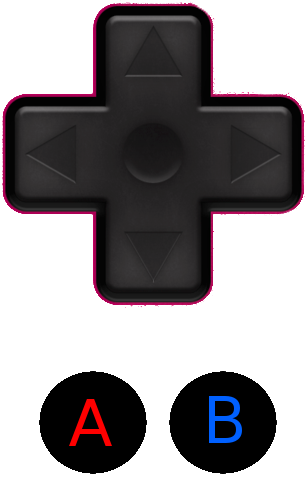
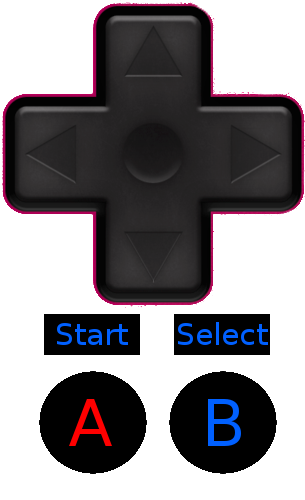
Adding start/select buttons

Changed region(s): [[0.118, 0.63, 0.4721, 0.72], [0.5607, 0.63, 0.8852, 0.72], [0.6787, 0.78, 0.7967, 0.9]]

diff --git a/playPokemon.py b/playPokemon.py
@@ -6,7 +6,8 @@ import numpy as np
 
 KEYS = ["Left", "Right", "Up", "Down", "Z", "X"]
 SAVEGAMELOC = "/home/ctralie/.vba/POKEMONRED981.sgm"
-PYTHON3 = False
+PYTHON3 = True
+DISPLAY = ":0.0"
 
 def launchGame():
     #subprocess.Popen(["vba", "-4", "POKEMONRED98.GB"])
@@ -92,7 +93,6 @@ if __name__ == '__main__2':
     loadGame("BEGINNING.sgm", ID)
 
 if __name__ == '__main__2':
-    display = ":1.0"
     launchGame()
     time.sleep(1)
     ID = getWindowID()
@@ -102,11 +102,10 @@ if __name__ == '__main__2':
     saveGame("test.sgm", ID)
 
 if __name__ == '__main__':
-    display = ":1.0"
     launchGame()
     time.sleep(1)
     ID = getWindowID()
-    recProc = startRecording("test.avi", ID, display)
+    recProc = startRecording("test.avi", ID, DISPLAY)
     time.sleep(1)
     loadGame("BEGINNING.sgm", ID)
     holdKey(ID, 'space')
